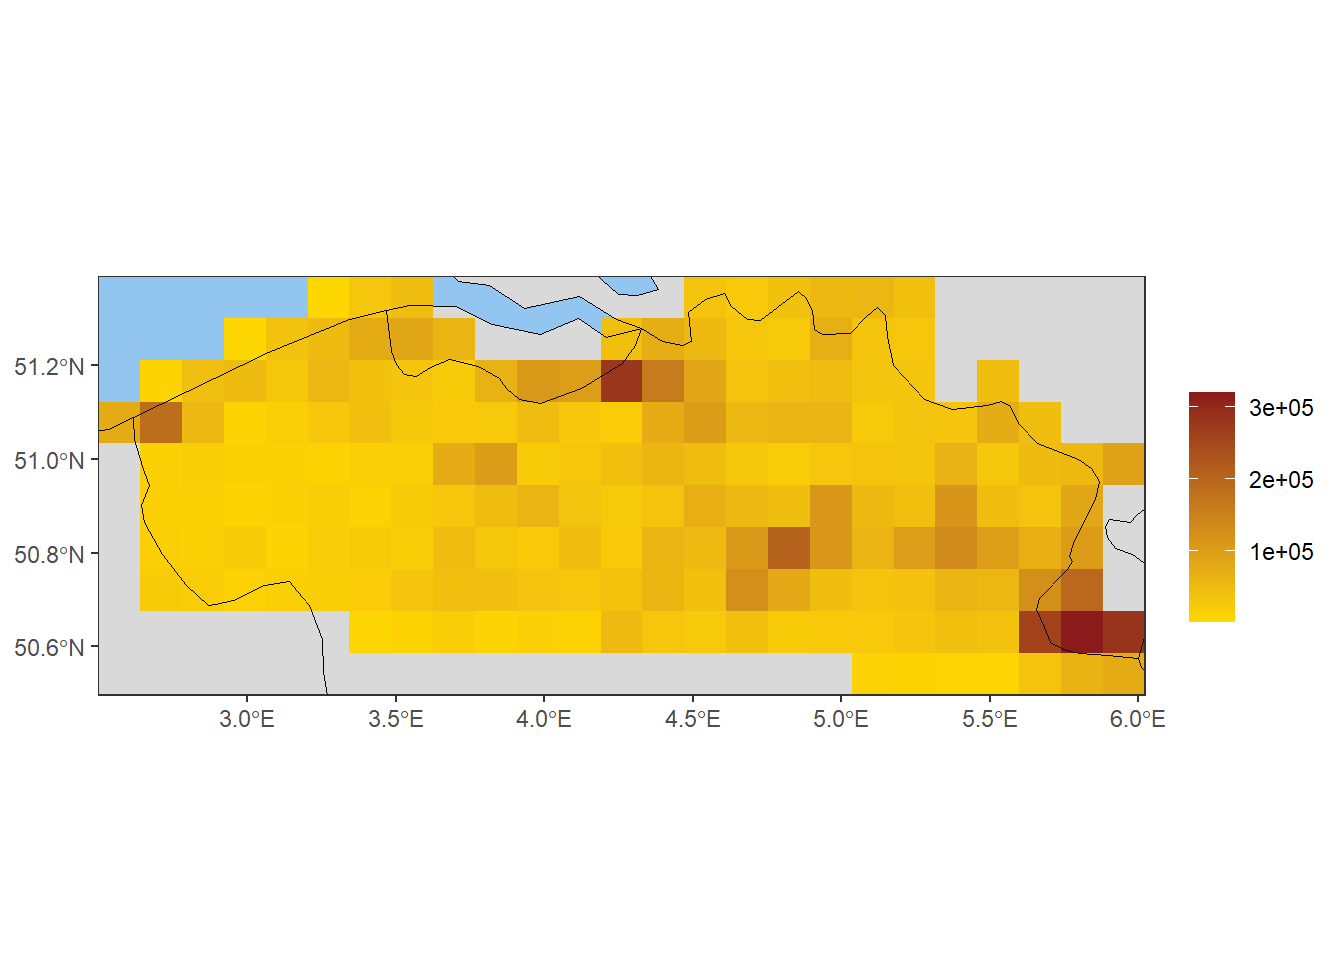
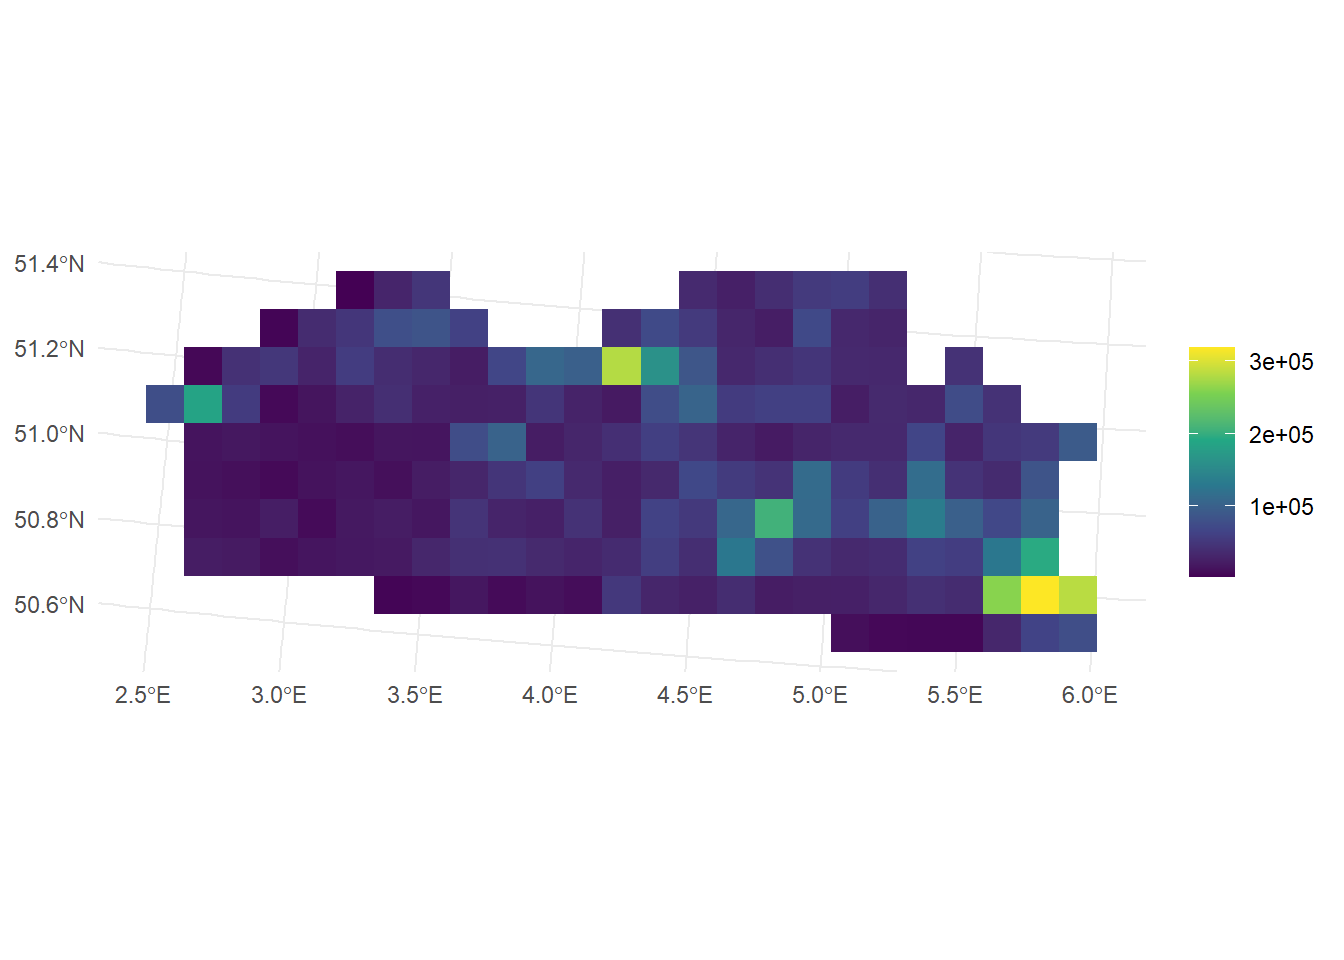
change colors of maps

diff --git a/docs/src/b3gbi_indicators_10km.html b/docs/src/b3gbi_indicators_10km.html
@@ -162,16 +162,8 @@ pre > code.sourceCode > span > a:first-child::before { text-decoration: underlin
     </a>
     <ul class="dropdown-menu" aria-labelledby="nav-menu-phylogenetic-indicators">    
         <li>
-    <a class="dropdown-item" href="../src/under_development.html">
- <span class="dropdown-text">Generate example Cube</span></a>
-  </li>  
-        <li>
-    <a class="dropdown-item" href="../src/under_development.html">
+    <a class="dropdown-item" href="../src/pd_indicator.html">
  <span class="dropdown-text">Results at 1 km resolution</span></a>
-  </li>  
-        <li>
-    <a class="dropdown-item" href="../src/under_development.html">
- <span class="dropdown-text">Focus on Natura2000</span></a>
   </li>  
     </ul>
   </li>
@@ -279,17 +271,18 @@ pre > code.sourceCode > span > a:first-child::before { text-decoration: underlin
 <div class="code-copy-outer-scaffold"><div class="sourceCode cell-code" id="cb1"><pre class="sourceCode r code-with-copy"><code class="sourceCode r"><span id="cb1-1"><a href="#cb1-1" aria-hidden="true" tabindex="-1"></a><span class="co">#load library</span></span>
 <span id="cb1-2"><a href="#cb1-2" aria-hidden="true" tabindex="-1"></a><span class="fu">library</span>(b3gbi)</span>
 <span id="cb1-3"><a href="#cb1-3" aria-hidden="true" tabindex="-1"></a></span>
-<span id="cb1-4"><a href="#cb1-4" aria-hidden="true" tabindex="-1"></a><span class="co">#Execute preprocessing step (</span><span class="al">TEST</span><span class="co">)</span></span>
-<span id="cb1-5"><a href="#cb1-5" aria-hidden="true" tabindex="-1"></a>OSR_map <span class="ot">&lt;-</span> <span class="fu">obs_richness_map</span>(Angiosperm_data_cube,</span>
-<span id="cb1-6"><a href="#cb1-6" aria-hidden="true" tabindex="-1"></a>                            <span class="at">cell_size=</span><span class="st">"grid"</span>)</span>
-<span id="cb1-7"><a href="#cb1-7" aria-hidden="true" tabindex="-1"></a></span>
-<span id="cb1-8"><a href="#cb1-8" aria-hidden="true" tabindex="-1"></a>OSR_ts <span class="ot">&lt;-</span> <span class="fu">obs_richness_ts</span>(Angiosperm_data_cube, </span>
-<span id="cb1-9"><a href="#cb1-9" aria-hidden="true" tabindex="-1"></a>                          <span class="at">cell_size=</span><span class="st">"grid"</span>)</span>
-<span id="cb1-10"><a href="#cb1-10" aria-hidden="true" tabindex="-1"></a></span>
-<span id="cb1-11"><a href="#cb1-11" aria-hidden="true" tabindex="-1"></a><span class="fu">plot_map</span>(OSR_map,</span>
-<span id="cb1-12"><a href="#cb1-12" aria-hidden="true" tabindex="-1"></a>         <span class="at">visible_gridlines =</span> <span class="cn">FALSE</span>)</span>
-<span id="cb1-13"><a href="#cb1-13" aria-hidden="true" tabindex="-1"></a></span>
-<span id="cb1-14"><a href="#cb1-14" aria-hidden="true" tabindex="-1"></a><span class="fu">plot_ts</span>(OSR_ts)</span></code></pre></div><button title="Copy to Clipboard" class="code-copy-button"><i class="bi"></i></button></div>
+<span id="cb1-4"><a href="#cb1-4" aria-hidden="true" tabindex="-1"></a></span>
+<span id="cb1-5"><a href="#cb1-5" aria-hidden="true" tabindex="-1"></a><span class="co">#Execute preprocessing step (</span><span class="al">TEST</span><span class="co">)</span></span>
+<span id="cb1-6"><a href="#cb1-6" aria-hidden="true" tabindex="-1"></a>OSR_map <span class="ot">&lt;-</span> <span class="fu">obs_richness_map</span>(Angiosperm_data_cube,</span>
+<span id="cb1-7"><a href="#cb1-7" aria-hidden="true" tabindex="-1"></a>                            <span class="at">cell_size=</span><span class="st">"grid"</span>)</span>
+<span id="cb1-8"><a href="#cb1-8" aria-hidden="true" tabindex="-1"></a></span>
+<span id="cb1-9"><a href="#cb1-9" aria-hidden="true" tabindex="-1"></a>OSR_ts <span class="ot">&lt;-</span> <span class="fu">obs_richness_ts</span>(Angiosperm_data_cube, </span>
+<span id="cb1-10"><a href="#cb1-10" aria-hidden="true" tabindex="-1"></a>                          <span class="at">cell_size=</span><span class="st">"grid"</span>)</span>
+<span id="cb1-11"><a href="#cb1-11" aria-hidden="true" tabindex="-1"></a></span>
+<span id="cb1-12"><a href="#cb1-12" aria-hidden="true" tabindex="-1"></a><span class="fu">plot_map</span>(OSR_map,</span>
+<span id="cb1-13"><a href="#cb1-13" aria-hidden="true" tabindex="-1"></a>         <span class="at">visible_gridlines =</span> <span class="cn">FALSE</span>)</span>
+<span id="cb1-14"><a href="#cb1-14" aria-hidden="true" tabindex="-1"></a></span>
+<span id="cb1-15"><a href="#cb1-15" aria-hidden="true" tabindex="-1"></a><span class="fu">plot_ts</span>(OSR_ts)</span></code></pre></div><button title="Copy to Clipboard" class="code-copy-button"><i class="bi"></i></button></div>
 </details>
 </div>
 <div class="cell">
@@ -817,6 +810,15 @@ pre > code.sourceCode > span > a:first-child::before { text-decoration: underlin
 </div>
 </div>
 </div>
+<div class="cell">
+<div class="cell-output-display">
+<div>
+<figure class="figure">
+<p><img src="b3gbi_indicators_10km_files/figure-html/unnamed-chunk-36-1.png" class="img-fluid figure-img" width="672"></p>
+</figure>
+</div>
+</div>
+</div>
 </div>
 </div>
 </div>
@@ -845,6 +847,23 @@ pre > code.sourceCode > span > a:first-child::before { text-decoration: underlin
 <span id="cb13-7"><a href="#cb13-7" aria-hidden="true" tabindex="-1"></a></span>
 <span id="cb13-8"><a href="#cb13-8" aria-hidden="true" tabindex="-1"></a><span class="fu">plot_ts</span>(OT_ts)</span></code></pre></div><button title="Copy to Clipboard" class="code-copy-button"><i class="bi"></i></button></div>
 </details>
+</div>
+<div class="cell">
+<div class="cell-output cell-output-stderr">
+<pre><code>Warning: Removed 1 row containing non-finite outside the scale range
+(`stat_smooth()`).</code></pre>
+</div>
+<div class="cell-output cell-output-stderr">
+<pre><code>Warning: Removed 1 row containing missing values or values outside the scale range
+(`geom_point()`).</code></pre>
+</div>
+<div class="cell-output-display">
+<div>
+<figure class="figure">
+<p><img src="b3gbi_indicators_10km_files/figure-html/unnamed-chunk-38-1.png" class="img-fluid figure-img" width="672"></p>
+</figure>
+</div>
+</div>
 </div>
 </div>
 </div>

diff --git a/docs/src/b3gbi_indicators_1km.html b/docs/src/b3gbi_indicators_1km.html
@@ -271,17 +271,18 @@ pre > code.sourceCode > span > a:first-child::before { text-decoration: underlin
 <div class="code-copy-outer-scaffold"><div class="sourceCode cell-code" id="cb1"><pre class="sourceCode r code-with-copy"><code class="sourceCode r"><span id="cb1-1"><a href="#cb1-1" aria-hidden="true" tabindex="-1"></a><span class="co">#load library</span></span>
 <span id="cb1-2"><a href="#cb1-2" aria-hidden="true" tabindex="-1"></a><span class="fu">library</span>(b3gbi)</span>
 <span id="cb1-3"><a href="#cb1-3" aria-hidden="true" tabindex="-1"></a></span>
-<span id="cb1-4"><a href="#cb1-4" aria-hidden="true" tabindex="-1"></a><span class="co">#Execute preprocessing step (</span><span class="al">TEST</span><span class="co">)</span></span>
-<span id="cb1-5"><a href="#cb1-5" aria-hidden="true" tabindex="-1"></a>OSR_map <span class="ot">&lt;-</span> <span class="fu">obs_richness_map</span>(Angiosperm_data_cube,</span>
-<span id="cb1-6"><a href="#cb1-6" aria-hidden="true" tabindex="-1"></a>                            <span class="at">cell_size=</span><span class="st">"grid"</span>)</span>
-<span id="cb1-7"><a href="#cb1-7" aria-hidden="true" tabindex="-1"></a></span>
-<span id="cb1-8"><a href="#cb1-8" aria-hidden="true" tabindex="-1"></a>OSR_ts <span class="ot">&lt;-</span> <span class="fu">obs_richness_ts</span>(Angiosperm_data_cube, </span>
-<span id="cb1-9"><a href="#cb1-9" aria-hidden="true" tabindex="-1"></a>                          <span class="at">cell_size=</span><span class="st">"grid"</span>)</span>
-<span id="cb1-10"><a href="#cb1-10" aria-hidden="true" tabindex="-1"></a></span>
-<span id="cb1-11"><a href="#cb1-11" aria-hidden="true" tabindex="-1"></a><span class="fu">plot_map</span>(OSR_map,</span>
-<span id="cb1-12"><a href="#cb1-12" aria-hidden="true" tabindex="-1"></a>         <span class="at">visible_gridlines =</span> <span class="cn">FALSE</span>)</span>
-<span id="cb1-13"><a href="#cb1-13" aria-hidden="true" tabindex="-1"></a></span>
-<span id="cb1-14"><a href="#cb1-14" aria-hidden="true" tabindex="-1"></a><span class="fu">plot_ts</span>(OSR_ts)</span></code></pre></div><button title="Copy to Clipboard" class="code-copy-button"><i class="bi"></i></button></div>
+<span id="cb1-4"><a href="#cb1-4" aria-hidden="true" tabindex="-1"></a></span>
+<span id="cb1-5"><a href="#cb1-5" aria-hidden="true" tabindex="-1"></a><span class="co">#Execute preprocessing step (</span><span class="al">TEST</span><span class="co">)</span></span>
+<span id="cb1-6"><a href="#cb1-6" aria-hidden="true" tabindex="-1"></a>OSR_map <span class="ot">&lt;-</span> <span class="fu">obs_richness_map</span>(Angiosperm_data_cube,</span>
+<span id="cb1-7"><a href="#cb1-7" aria-hidden="true" tabindex="-1"></a>                            <span class="at">cell_size=</span><span class="st">"grid"</span>)</span>
+<span id="cb1-8"><a href="#cb1-8" aria-hidden="true" tabindex="-1"></a></span>
+<span id="cb1-9"><a href="#cb1-9" aria-hidden="true" tabindex="-1"></a>OSR_ts <span class="ot">&lt;-</span> <span class="fu">obs_richness_ts</span>(Angiosperm_data_cube, </span>
+<span id="cb1-10"><a href="#cb1-10" aria-hidden="true" tabindex="-1"></a>                          <span class="at">cell_size=</span><span class="st">"grid"</span>)</span>
+<span id="cb1-11"><a href="#cb1-11" aria-hidden="true" tabindex="-1"></a></span>
+<span id="cb1-12"><a href="#cb1-12" aria-hidden="true" tabindex="-1"></a><span class="fu">plot_map</span>(OSR_map,</span>
+<span id="cb1-13"><a href="#cb1-13" aria-hidden="true" tabindex="-1"></a>         <span class="at">visible_gridlines =</span> <span class="cn">FALSE</span>)</span>
+<span id="cb1-14"><a href="#cb1-14" aria-hidden="true" tabindex="-1"></a></span>
+<span id="cb1-15"><a href="#cb1-15" aria-hidden="true" tabindex="-1"></a><span class="fu">plot_ts</span>(OSR_ts)</span></code></pre></div><button title="Copy to Clipboard" class="code-copy-button"><i class="bi"></i></button></div>
 </details>
 </div>
 <div class="cell">

diff --git a/docs/src/b3gbi_indicators_Natura2000.html b/docs/src/b3gbi_indicators_Natura2000.html
@@ -127,16 +127,8 @@ ul.task-list li input[type="checkbox"] {
     </a>
     <ul class="dropdown-menu" aria-labelledby="nav-menu-phylogenetic-indicators">    
         <li>
-    <a class="dropdown-item" href="../src/under_development.html">
- <span class="dropdown-text">Generate example Cube</span></a>
-  </li>  
-        <li>
-    <a class="dropdown-item" href="../src/under_development.html">
+    <a class="dropdown-item" href="../src/pd_indicator.html">
  <span class="dropdown-text">Results at 1 km resolution</span></a>
-  </li>  
-        <li>
-    <a class="dropdown-item" href="../src/under_development.html">
- <span class="dropdown-text">Focus on Natura2000</span></a>
   </li>  
     </ul>
   </li>

diff --git a/docs/src/pd_indicator.html b/docs/src/pd_indicator.html
@@ -239,11 +239,11 @@ ul.task-list li input[type="checkbox"] {
 </div>
 </div>
 </div>
+</div>
+</div>
+</div>
 
 
-</div>
-</div>
-</div>
 
 </main> <!-- /main -->
 <script id="quarto-html-after-body" type="application/javascript">
